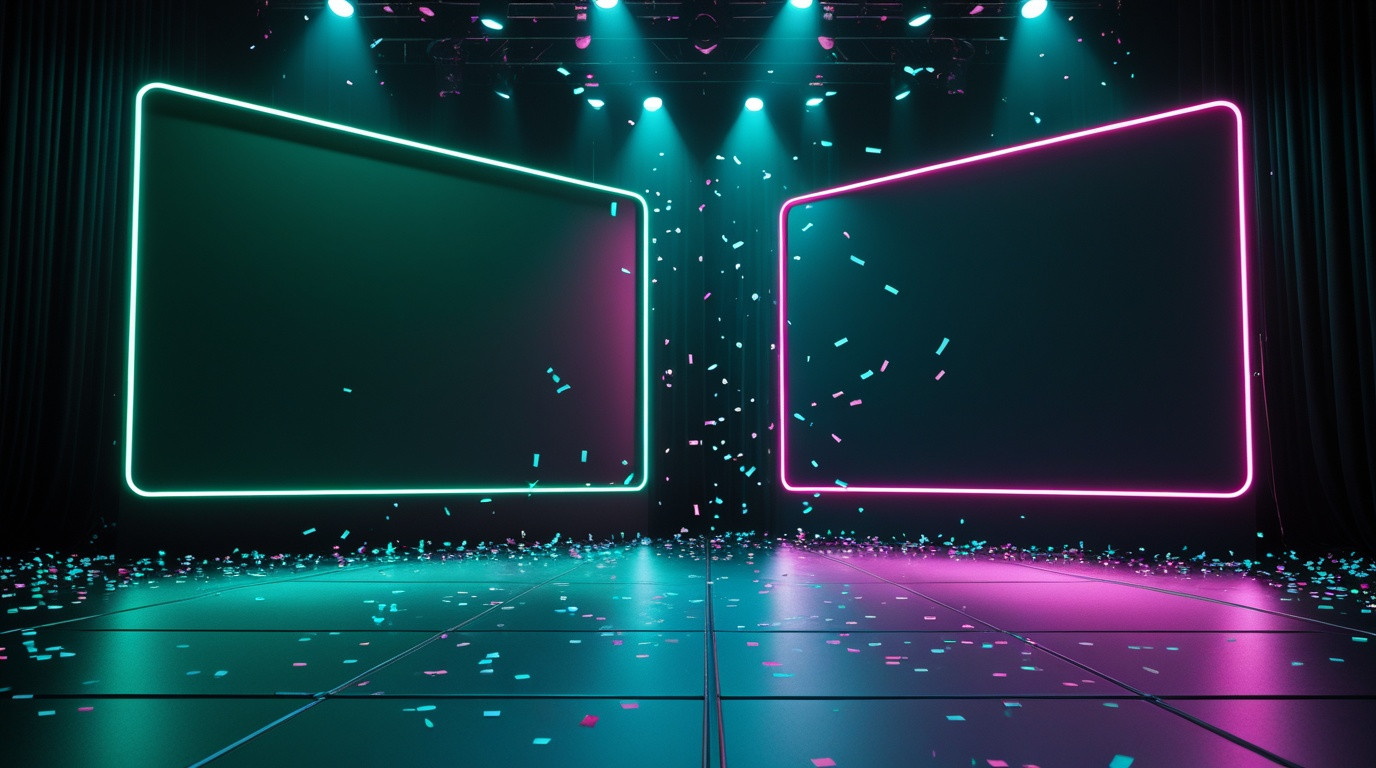
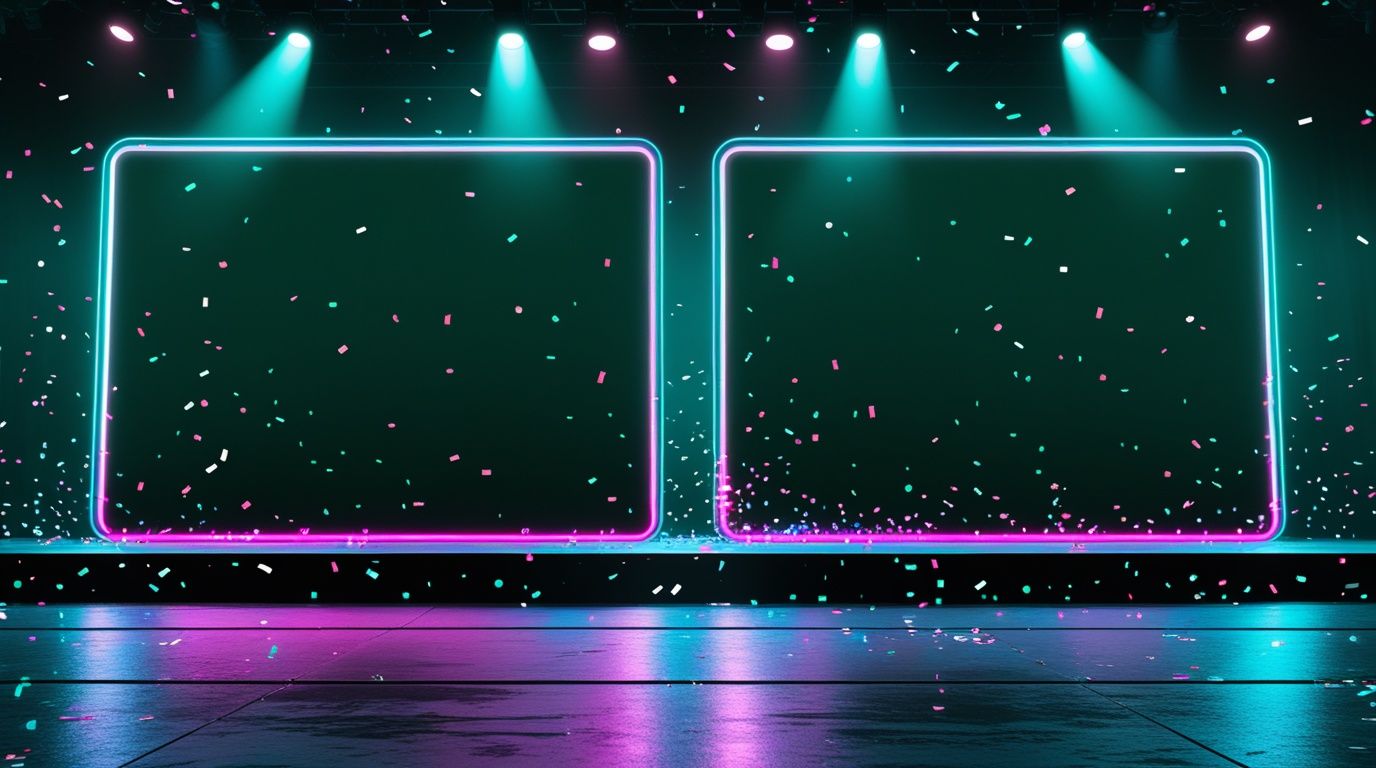
Wire in the 4 picked Leonardo backgrounds (Home, Setup, Reveal, Leaderboard)
Home and Setup share the abstract-pattern image (only one such asset
was found in the Art folder); Reveal replaces the mismatched angled
LED-screen art with the straight-on regeneration; Leaderboard gets the
vibrant confetti/crossing-beams version with the podium motif dropped.

Claude-Session: https://claude.ai/code/session_01SGP6n5SYwtS8PConfdJF6u

diff --git a/app/home.tsx b/app/home.tsx
@@ -1,4 +1,4 @@
-import { Text, View, TouchableOpacity } from "react-native";
+import { Text, View, TouchableOpacity, ImageBackground } from "react-native";
 import { useRouter } from "expo-router";
 import { useSafeAreaInsets } from "react-native-safe-area-context";
 import { GradientButton } from "./components/GradientButton";
@@ -8,7 +8,12 @@ export default function Index() {
   const router = useRouter();
   const insets = useSafeAreaInsets();
   return (
-    <View style={{ flex: 1, justifyContent: "center", alignItems: "center", backgroundColor: colors.bg, paddingHorizontal: 40, paddingBottom: Math.max(insets.bottom, 24) }}>
+    <ImageBackground
+      source={require("../assets/images/bg_home.jpg")}
+      resizeMode="cover"
+      style={{ flex: 1, justifyContent: "center", alignItems: "center", paddingHorizontal: 40, paddingBottom: Math.max(insets.bottom, 24) }}
+    >
+      <View style={{ position: "absolute", top: 0, left: 0, right: 0, bottom: 0, backgroundColor: "rgba(6,20,15,0.4)" }} pointerEvents="none" />
       <Text numberOfLines={1} adjustsFontSizeToFit style={{ fontSize: 60, fontWeight: "700", width: "100%", textAlign: "center" }}>
         <Text style={{ color: colors.mint }}>Orb</Text>
         <Text style={{ color: colors.pink }}>groove</Text>
@@ -17,6 +22,6 @@ export default function Index() {
       <TouchableOpacity onPress={() => router.push("/pose-test")} style={{ marginTop: 20 }}>
         <Text style={{ color: colors.mintDim, fontSize: 12, opacity: 0.5 }}>pose test (dev)</Text>
       </TouchableOpacity>
-    </View>
+    </ImageBackground>
   );
 }

diff --git a/app/leaderboard.tsx b/app/leaderboard.tsx
@@ -1,4 +1,4 @@
-import { Text, View } from "react-native";
+import { Text, View, ImageBackground } from "react-native";
 import { useRouter } from "expo-router";
 import { useSafeAreaInsets } from "react-native-safe-area-context";
 import { useGame } from "./context/GameContext";
@@ -13,7 +13,12 @@ export default function Leaderboard() {
   const sorted = [...players].sort((a, b) => b.score - a.score);
 
   return (
-    <View style={{ flex: 1, justifyContent: "center", backgroundColor: colors.bg, padding: 14, paddingBottom: 14 + Math.max(insets.bottom, 24) }}>
+    <ImageBackground
+      source={require("../assets/images/bg_leaderboard.jpg")}
+      resizeMode="cover"
+      style={{ flex: 1, justifyContent: "center", padding: 14, paddingBottom: 14 + Math.max(insets.bottom, 24) }}
+    >
+      <View style={{ position: "absolute", top: 0, left: 0, right: 0, bottom: 0, backgroundColor: "rgba(6,20,15,0.4)" }} pointerEvents="none" />
       <Text style={{ color: colors.pink, fontSize: 10, letterSpacing: 3, textTransform: "uppercase", marginBottom: 4, textAlign: "center" }}>After Round {currentRoundIndex}</Text>
       <Text style={{ color: colors.mint, fontSize: 20, fontStyle: "italic", marginBottom: 8, textAlign: "center" }}>Leaderboard</Text>
       {sorted.map((p, i) => (
@@ -27,6 +32,6 @@ export default function Leaderboard() {
         </View>
       ))}
       <GradientButton label="NEXT ROUND" onPress={() => router.push("/round")} style={{ width: "100%", marginTop: 10 }} />
-    </View>
+    </ImageBackground>
   );
 }

diff --git a/app/players.tsx b/app/players.tsx
@@ -1,4 +1,4 @@
-import { Text, View, TouchableOpacity, LayoutChangeEvent } from "react-native";
+import { Text, View, TouchableOpacity, LayoutChangeEvent, ImageBackground } from "react-native";
 import { useRouter, useLocalSearchParams } from "expo-router";
 import { useState, useEffect } from "react";
 import { useSafeAreaInsets } from "react-native-safe-area-context";
@@ -156,10 +156,13 @@ export default function Players() {
   const shownNames = curatedNames.slice(0, visibleNameCount);
 
   return (
-    <View
-      style={{ flex: 1, backgroundColor: colors.bg, padding: 20, paddingBottom: 20 + Math.max(insets.bottom, 24), justifyContent: "center" }}
+    <ImageBackground
+      source={require("../assets/images/bg_setup.jpg")}
+      resizeMode="cover"
+      style={{ flex: 1, padding: 20, paddingBottom: 20 + Math.max(insets.bottom, 24), justifyContent: "center" }}
       onLayout={(e: LayoutChangeEvent) => setScreenHeight(e.nativeEvent.layout.height)}
     >
+      <View style={{ position: "absolute", top: 0, left: 0, right: 0, bottom: 0, backgroundColor: "rgba(6,20,15,0.4)" }} pointerEvents="none" />
       {step === "announce" && (
         <View style={{ width: "100%", alignItems: "center" }}>
           <Text style={{ fontSize: 40, marginBottom: 20 }}>👀</Text>
@@ -240,6 +243,6 @@ export default function Players() {
           )}
         </View>
       )}
-    </View>
+    </ImageBackground>
   );
 }
